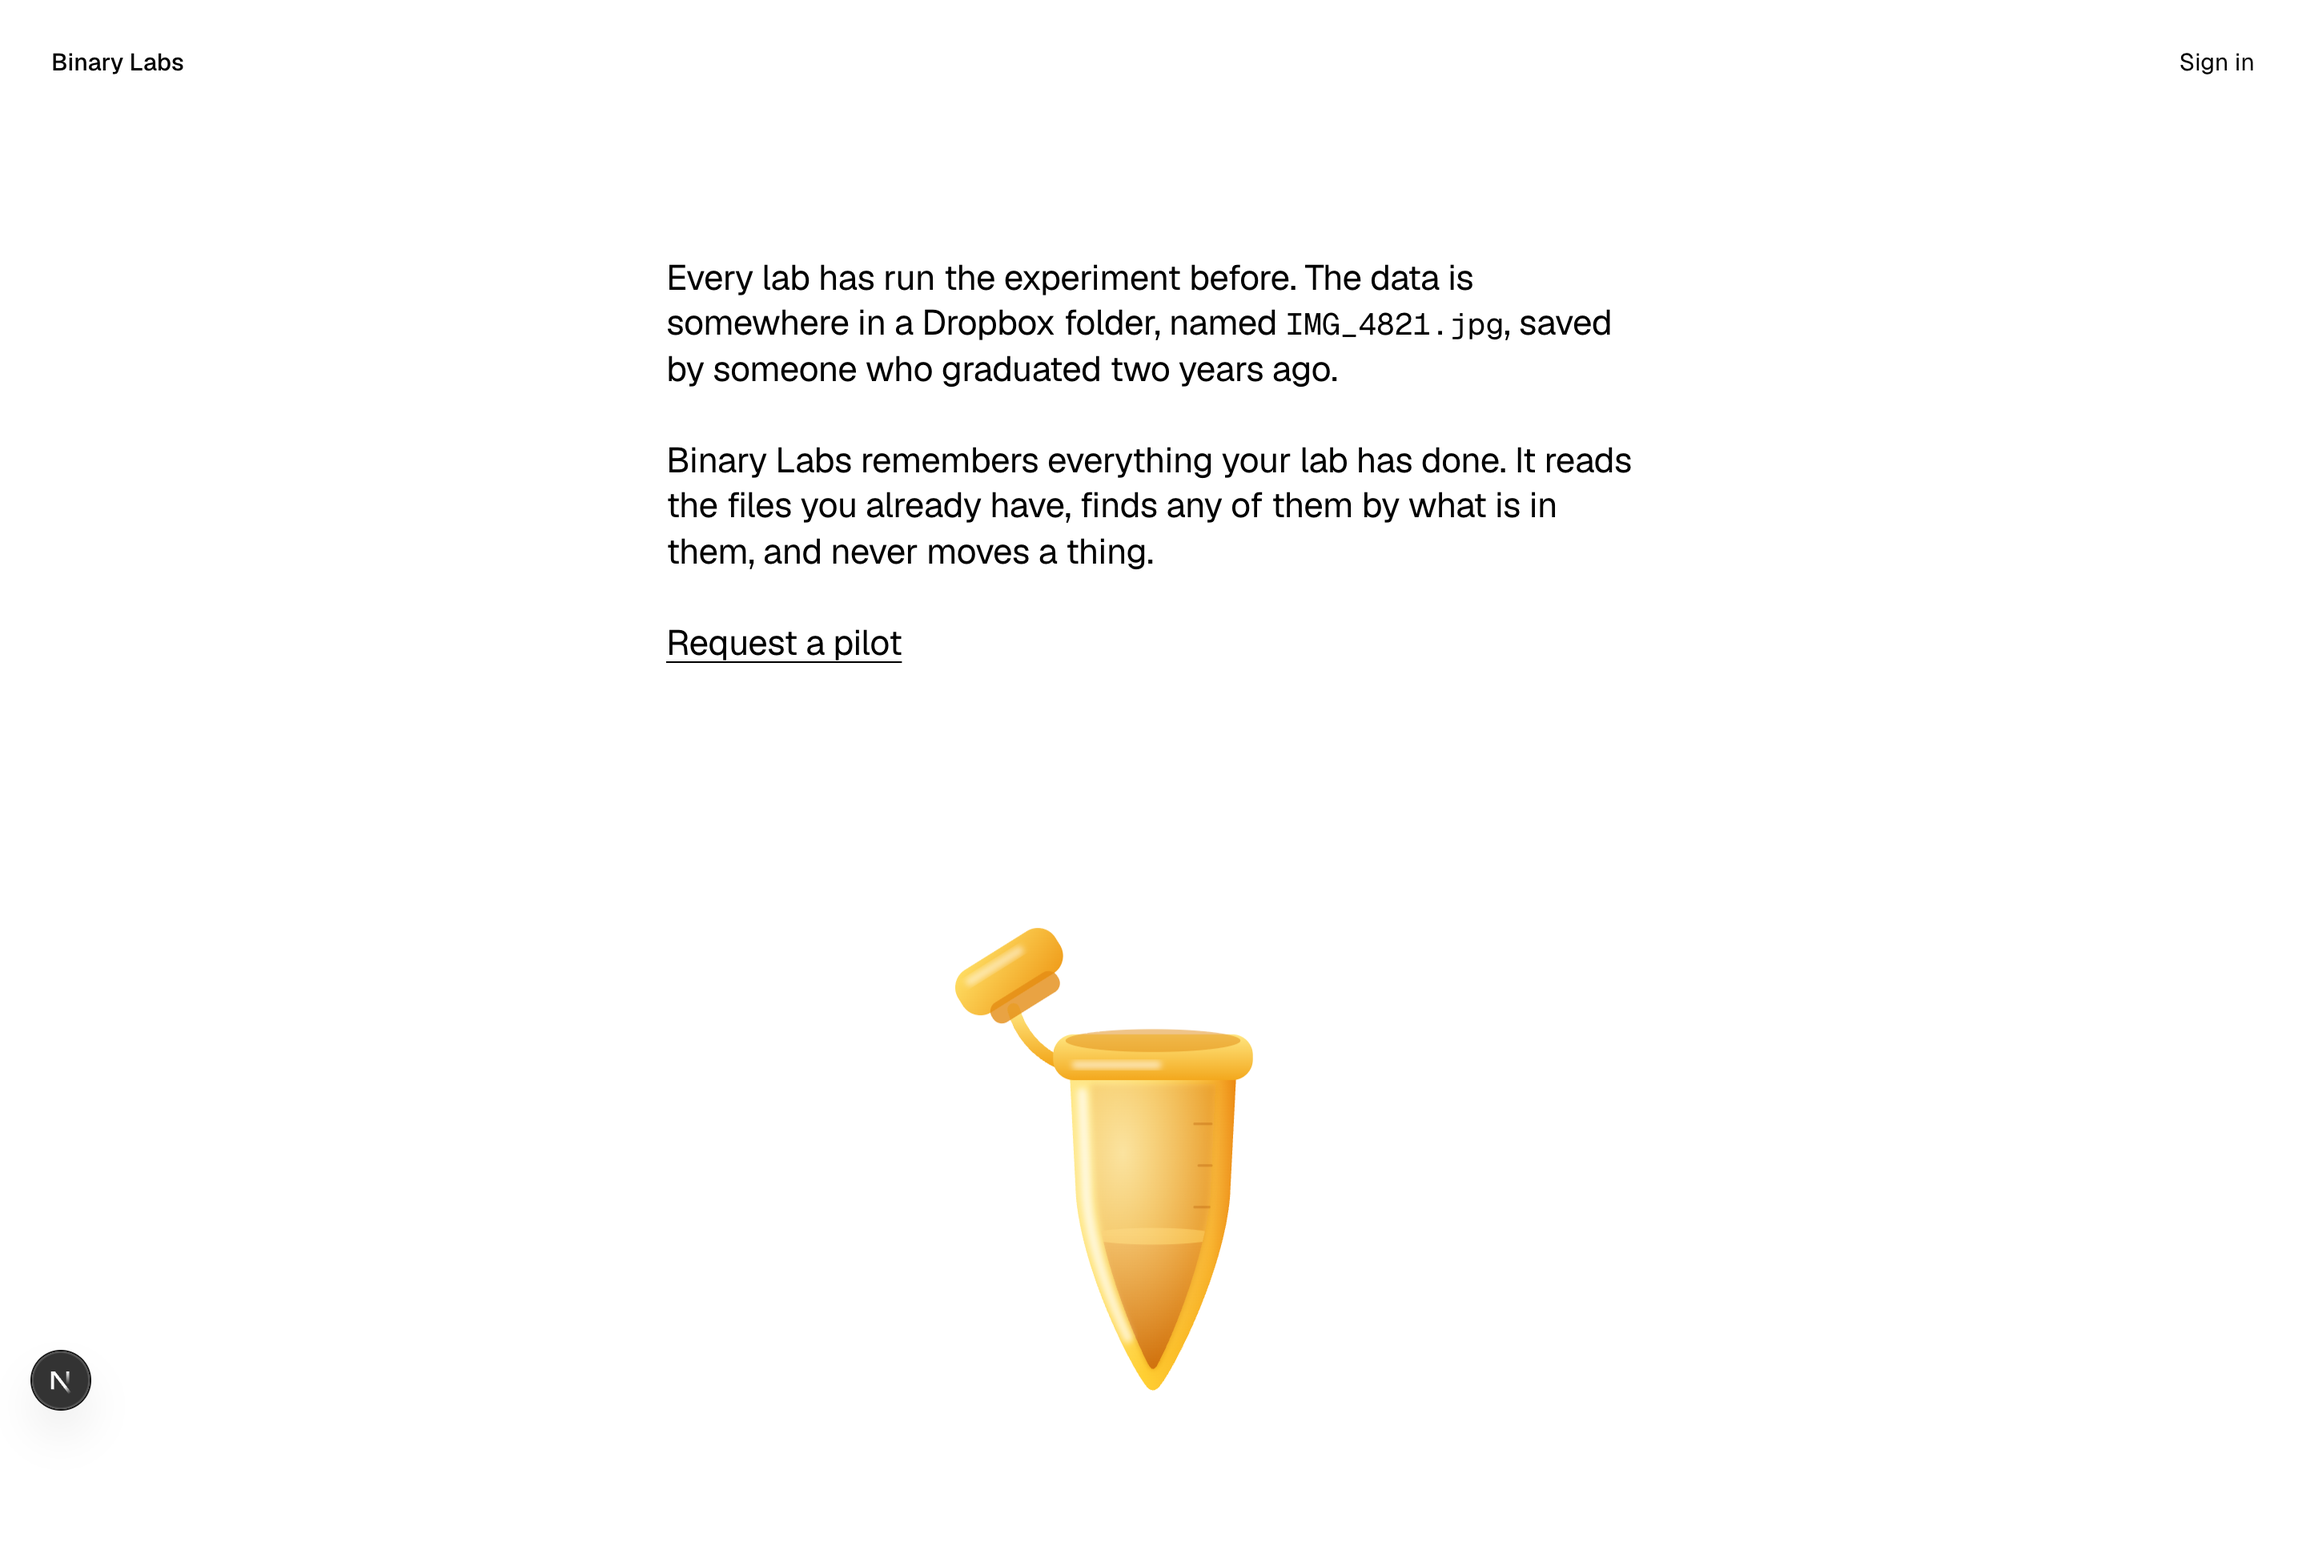
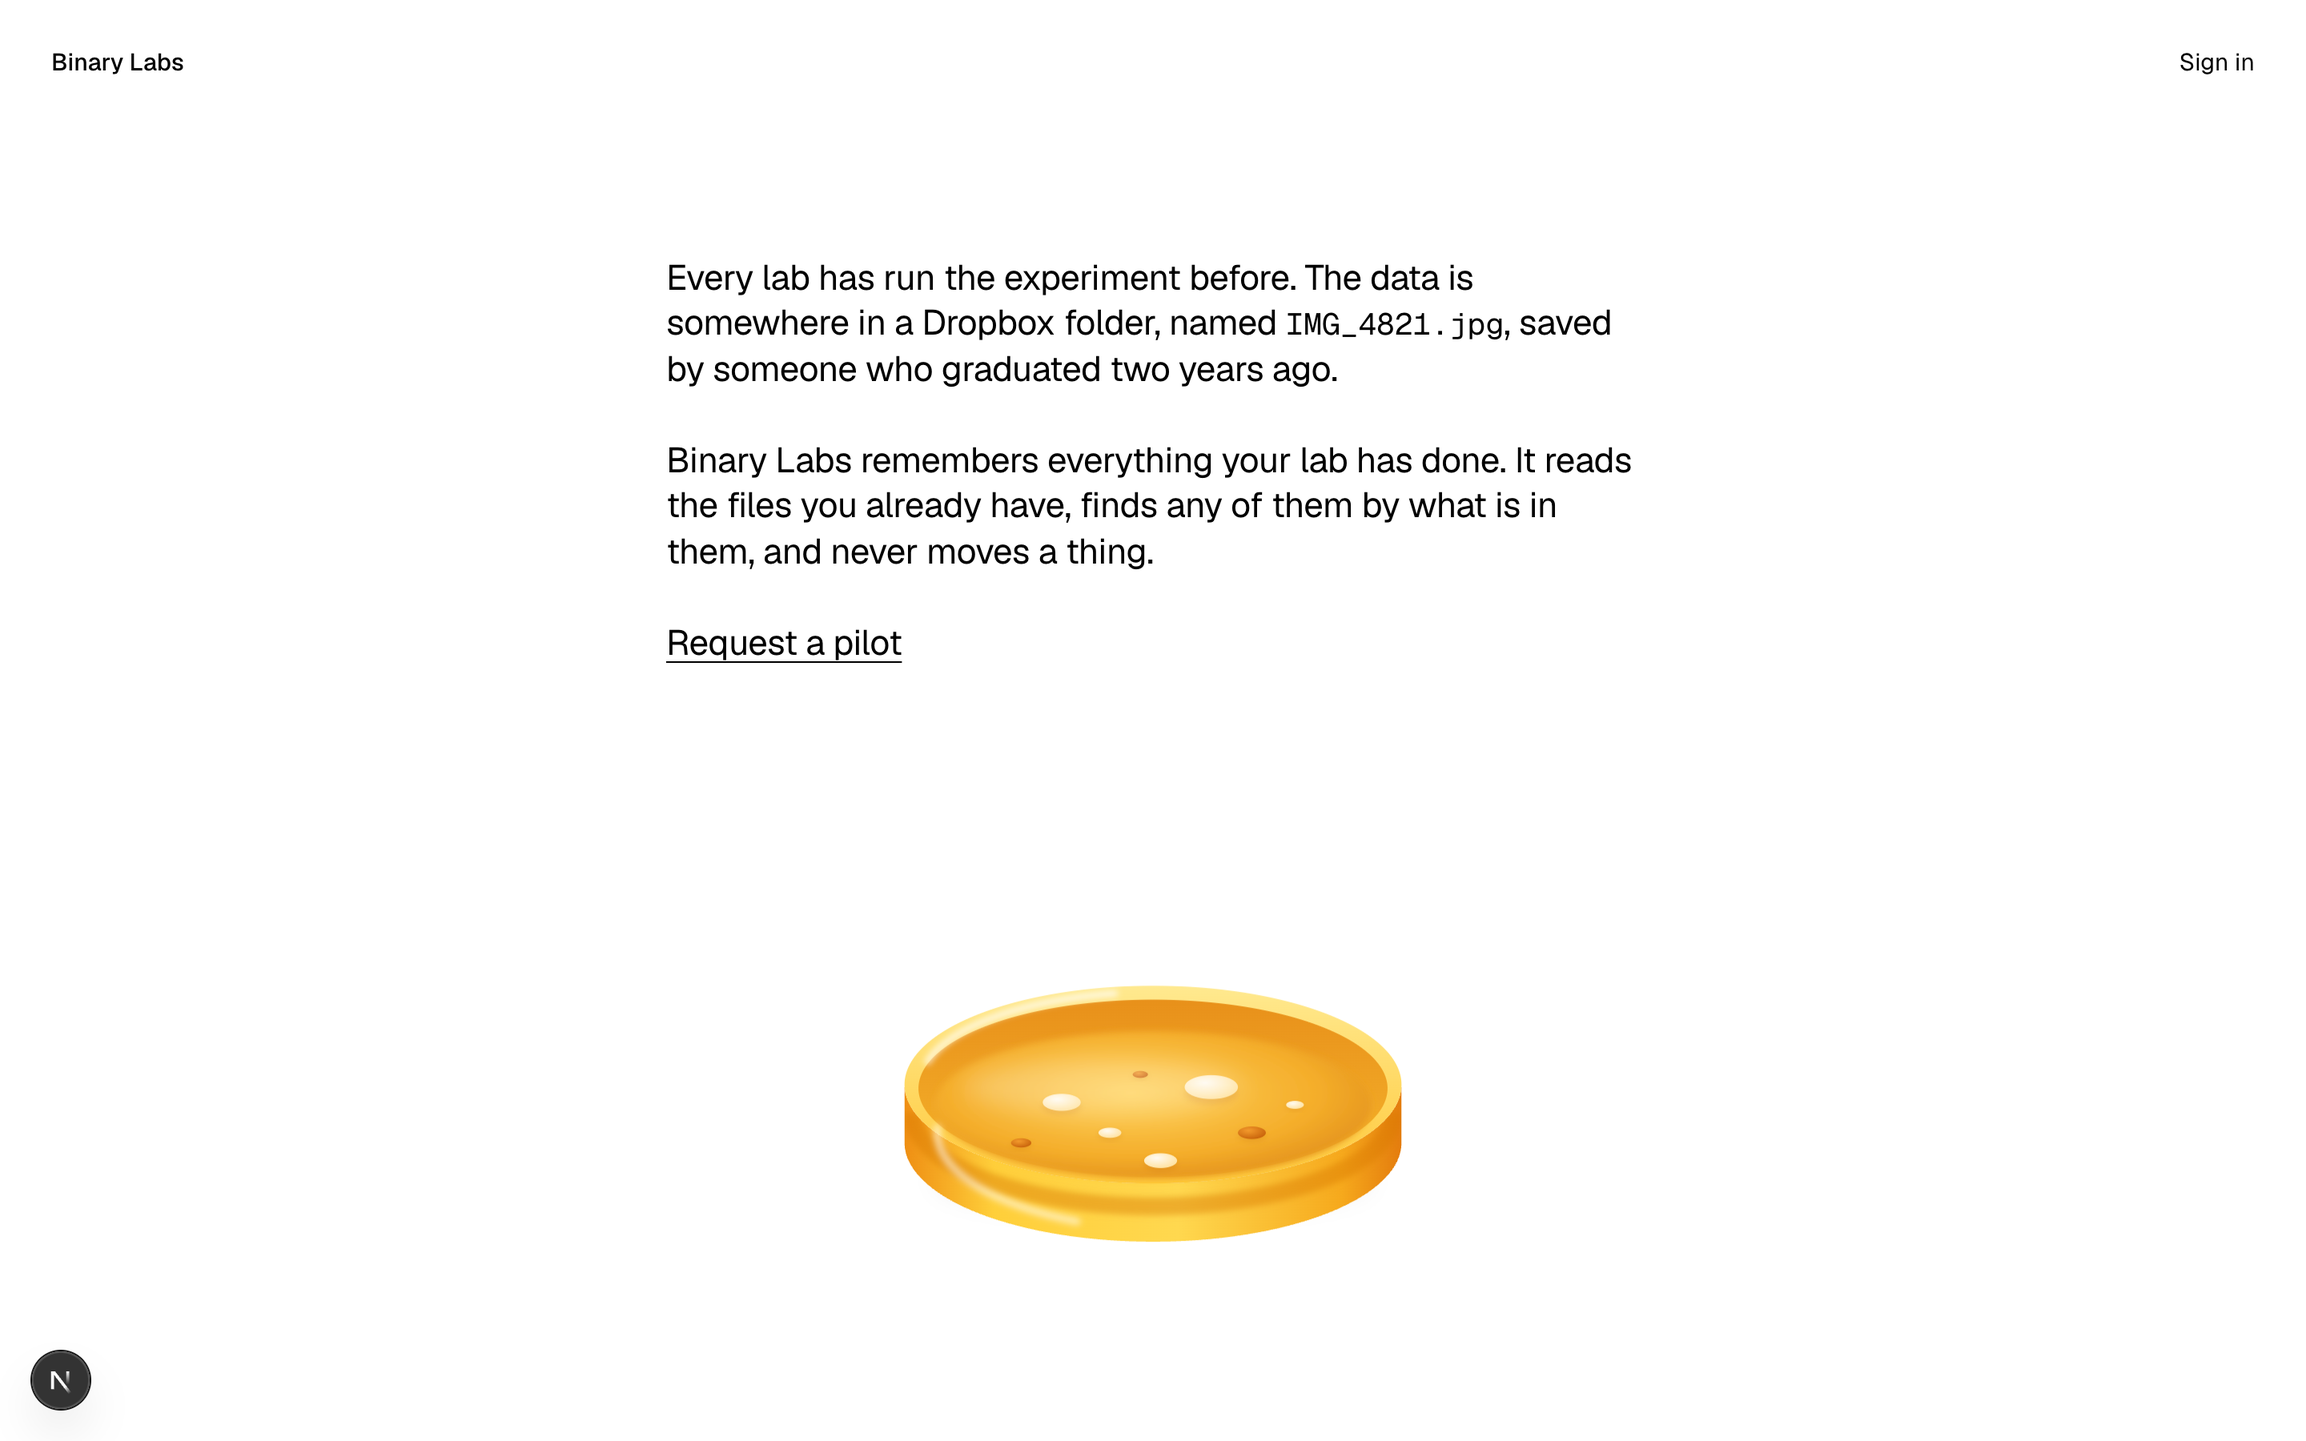
landing: glossy petri dish instead of the tube

diff --git a/apps/landing/app/dish.tsx b/apps/landing/app/dish.tsx
@@ -1,0 +1,108 @@
+const CX = 240;
+const TOP = 176;
+const DEPTH = 46;
+const RX = 196;
+const RY = 78;
+
+// Colonies sit on the agar; ry is squashed to match the dish's perspective.
+const COLONIES = [
+  { x: 168, y: 190, r: 15, tone: "cream" },
+  { x: 206, y: 214, r: 9, tone: "cream" },
+  { x: 286, y: 178, r: 21, tone: "cream" },
+  { x: 318, y: 214, r: 11, tone: "deep" },
+  { x: 246, y: 236, r: 13, tone: "cream" },
+  { x: 136, y: 222, r: 8, tone: "deep" },
+  { x: 352, y: 192, r: 7, tone: "cream" },
+  { x: 230, y: 168, r: 6, tone: "deep" },
+] as const;
+
+const wall = `M${CX - RX} ${TOP} L${CX - RX} ${TOP + DEPTH} A${RX} ${RY} 0 0 0 ${CX + RX} ${TOP + DEPTH} L${CX + RX} ${TOP} A${RX} ${RY} 0 0 1 ${CX - RX} ${TOP} Z`;
+
+export function Dish() {
+  return (
+    <svg viewBox="0 0 480 330" role="img" aria-label="A glossy amber petri dish with a few colonies growing on it" className="h-auto w-full">
+      <defs>
+        <linearGradient id="dish-wall" x1="0" x2="1" y1="0" y2="0">
+          <stop offset="0" stopColor="#ef8f13" />
+          <stop offset="0.18" stopColor="#ffcf3a" />
+          <stop offset="0.55" stopColor="#ffd84f" />
+          <stop offset="0.88" stopColor="#f6a91c" />
+          <stop offset="1" stopColor="#e47c0d" />
+        </linearGradient>
+        <linearGradient id="dish-rim" x1="0" x2="0" y1="0" y2="1">
+          <stop offset="0" stopColor="#ffe98f" />
+          <stop offset="1" stopColor="#ffc93a" />
+        </linearGradient>
+        <linearGradient id="dish-inner" x1="0" x2="0" y1="0" y2="1">
+          <stop offset="0" stopColor="#e8901a" />
+          <stop offset="1" stopColor="#f6b52c" />
+        </linearGradient>
+        <radialGradient id="dish-agar" cx="0.45" cy="0.42" r="0.62">
+          <stop offset="0" stopColor="#ffd25a" />
+          <stop offset="0.7" stopColor="#f4ad2a" />
+          <stop offset="1" stopColor="#e2901b" />
+        </radialGradient>
+        <radialGradient id="colony-cream" cx="0.38" cy="0.32" r="0.7">
+          <stop offset="0" stopColor="#fffaf0" />
+          <stop offset="1" stopColor="#ffe3a1" />
+        </radialGradient>
+        <radialGradient id="colony-deep" cx="0.38" cy="0.32" r="0.7">
+          <stop offset="0" stopColor="#f39a2c" />
+          <stop offset="1" stopColor="#c9640c" />
+        </radialGradient>
+        <filter id="dish-blur-sm" x="-30%" y="-30%" width="160%" height="160%">
+          <feGaussianBlur stdDeviation="2.5" />
+        </filter>
+        <clipPath id="dish-wall-clip">
+          <path d={wall} />
+        </clipPath>
+        <filter id="dish-blur-lg" x="-30%" y="-60%" width="160%" height="220%">
+          <feGaussianBlur stdDeviation="9" />
+        </filter>
+      </defs>
+
+      <ellipse cx={CX} cy={TOP + DEPTH + 30} rx={RX - 24} ry={26} fill="#000" opacity="0.07" filter="url(#dish-blur-lg)" />
+
+      <path d={wall} fill="url(#dish-wall)" />
+      <path
+        clipPath="url(#dish-wall-clip)"
+        d={`M${CX - RX + 6} ${TOP + 22} A${RX - 6} ${RY - 4} 0 0 0 ${CX + RX - 6} ${TOP + 22}`}
+        fill="none"
+        stroke="#d97a0e"
+        strokeOpacity="0.45"
+        strokeWidth="14"
+        filter="url(#dish-blur-sm)"
+      />
+      <ellipse cx={CX} cy={TOP} rx={RX} ry={RY} fill="url(#dish-rim)" />
+      <ellipse cx={CX} cy={TOP + 3} rx={RX - 11} ry={RY - 8} fill="url(#dish-inner)" />
+      <ellipse cx={CX} cy={TOP + 16} rx={RX - 24} ry={RY - 20} fill="url(#dish-agar)" filter="url(#dish-blur-sm)" />
+
+      {COLONIES.map((c) => (
+        <g key={`${c.x}-${c.y}`}>
+          <ellipse cx={c.x} cy={c.y + c.r * 0.22} rx={c.r} ry={c.r * 0.42} fill="#b85a08" opacity="0.18" filter="url(#dish-blur-sm)" />
+          <ellipse cx={c.x} cy={c.y} rx={c.r} ry={c.r * 0.45} fill={`url(#colony-${c.tone})`} />
+        </g>
+      ))}
+
+      <ellipse cx={CX - 40} cy={TOP + 2} rx={110} ry={22} fill="#fff" opacity="0.22" filter="url(#dish-blur-lg)" />
+      <path
+        d={`M${CX - RX + 18} ${TOP - 18} A${RX - 8} ${RY - 6} 0 0 1 ${CX - 30} ${TOP - RY + 6}`}
+        fill="none"
+        stroke="#fff"
+        strokeOpacity="0.75"
+        strokeWidth="5"
+        strokeLinecap="round"
+        filter="url(#dish-blur-sm)"
+      />
+      <path
+        d={`M${CX - RX + 26} ${TOP + 34} A${RX} ${RY} 0 0 0 ${CX - 60} ${TOP + RY + 30}`}
+        fill="none"
+        stroke="#fff"
+        strokeOpacity="0.55"
+        strokeWidth="6"
+        strokeLinecap="round"
+        filter="url(#dish-blur-sm)"
+      />
+    </svg>
+  );
+}

diff --git a/apps/landing/app/page.tsx b/apps/landing/app/page.tsx
@@ -1,4 +1,4 @@
-import { Tube } from "./tube";
+import { Dish } from "./dish";
 
 const PILOT_MAILTO = "mailto:hello@binarylabs.example?subject=Pilot%20request";
 const APP_URL = process.env.NEXT_PUBLIC_APP_URL ?? "http://localhost:3000";
@@ -33,8 +33,8 @@ export default function Home() {
         </p>
       </main>
 
-      <figure className="float mx-auto mt-[14vh] w-[min(260px,62vw)] pb-20">
-        <Tube />
+      <figure className="float mx-auto mt-[14vh] w-[min(380px,82vw)] pb-20">
+        <Dish />
       </figure>
     </div>
   );
